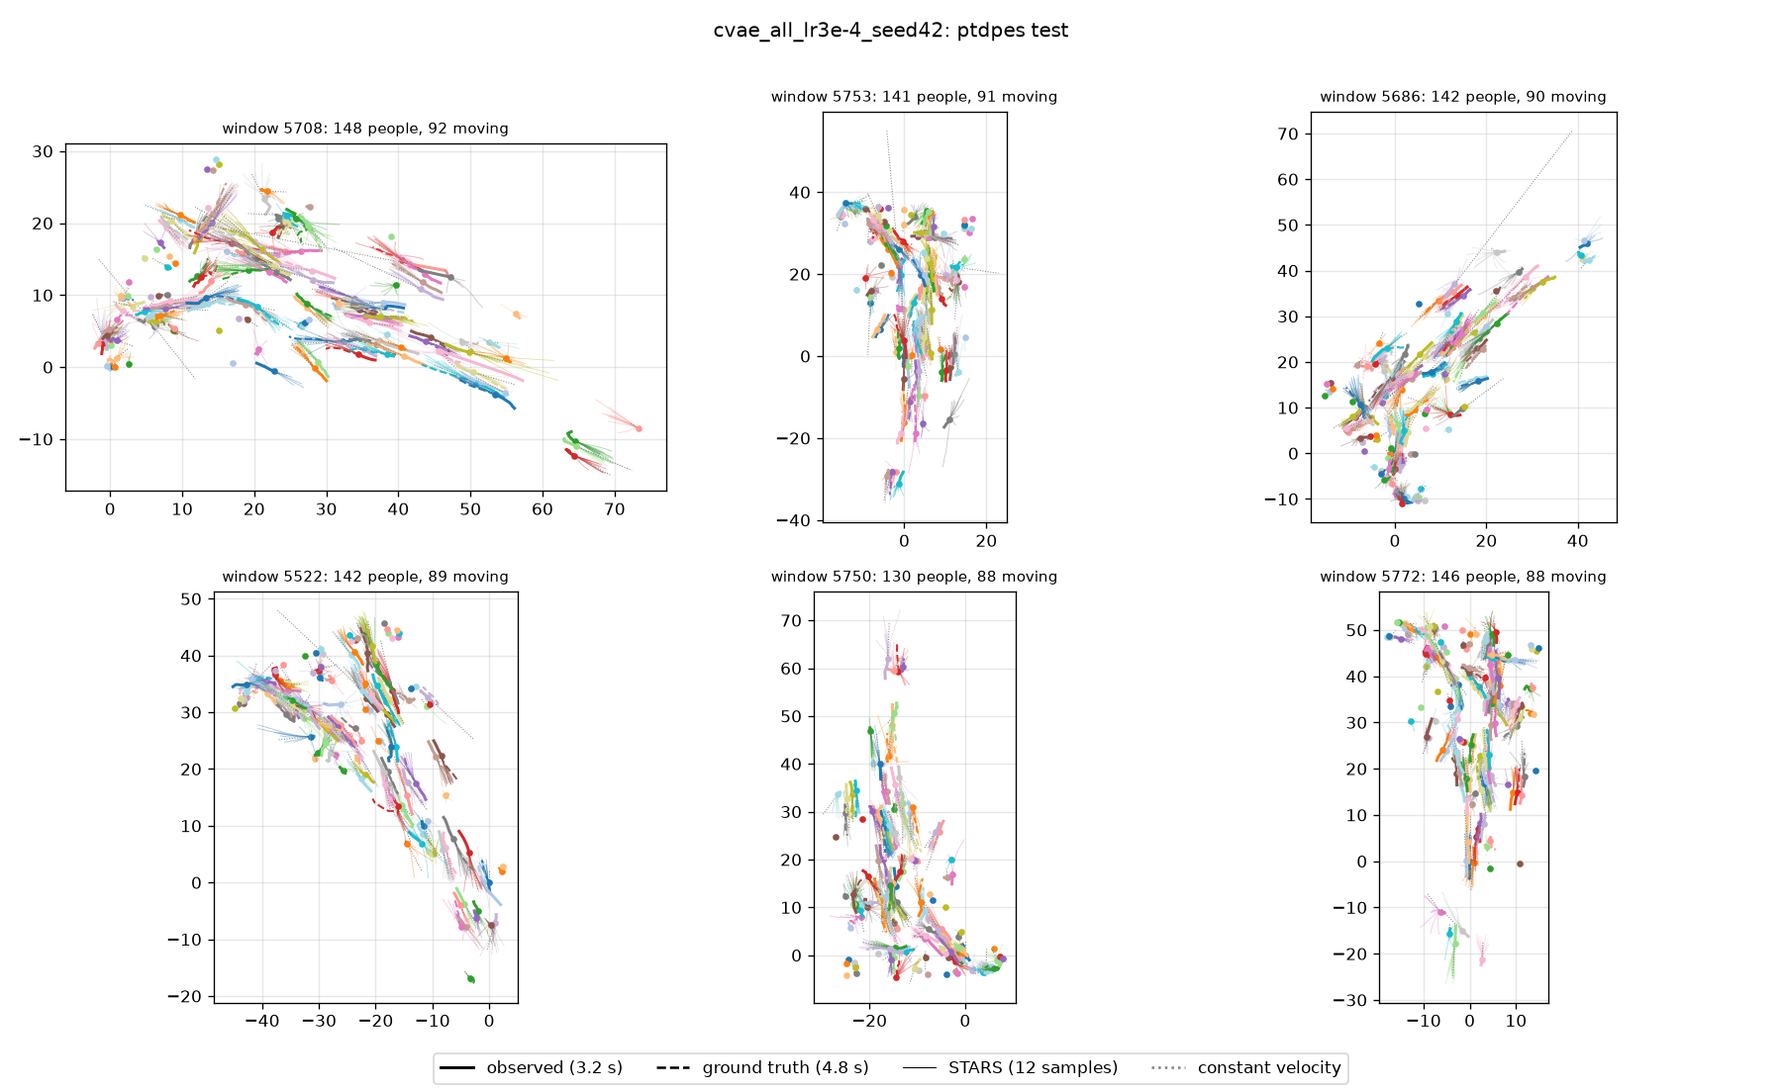
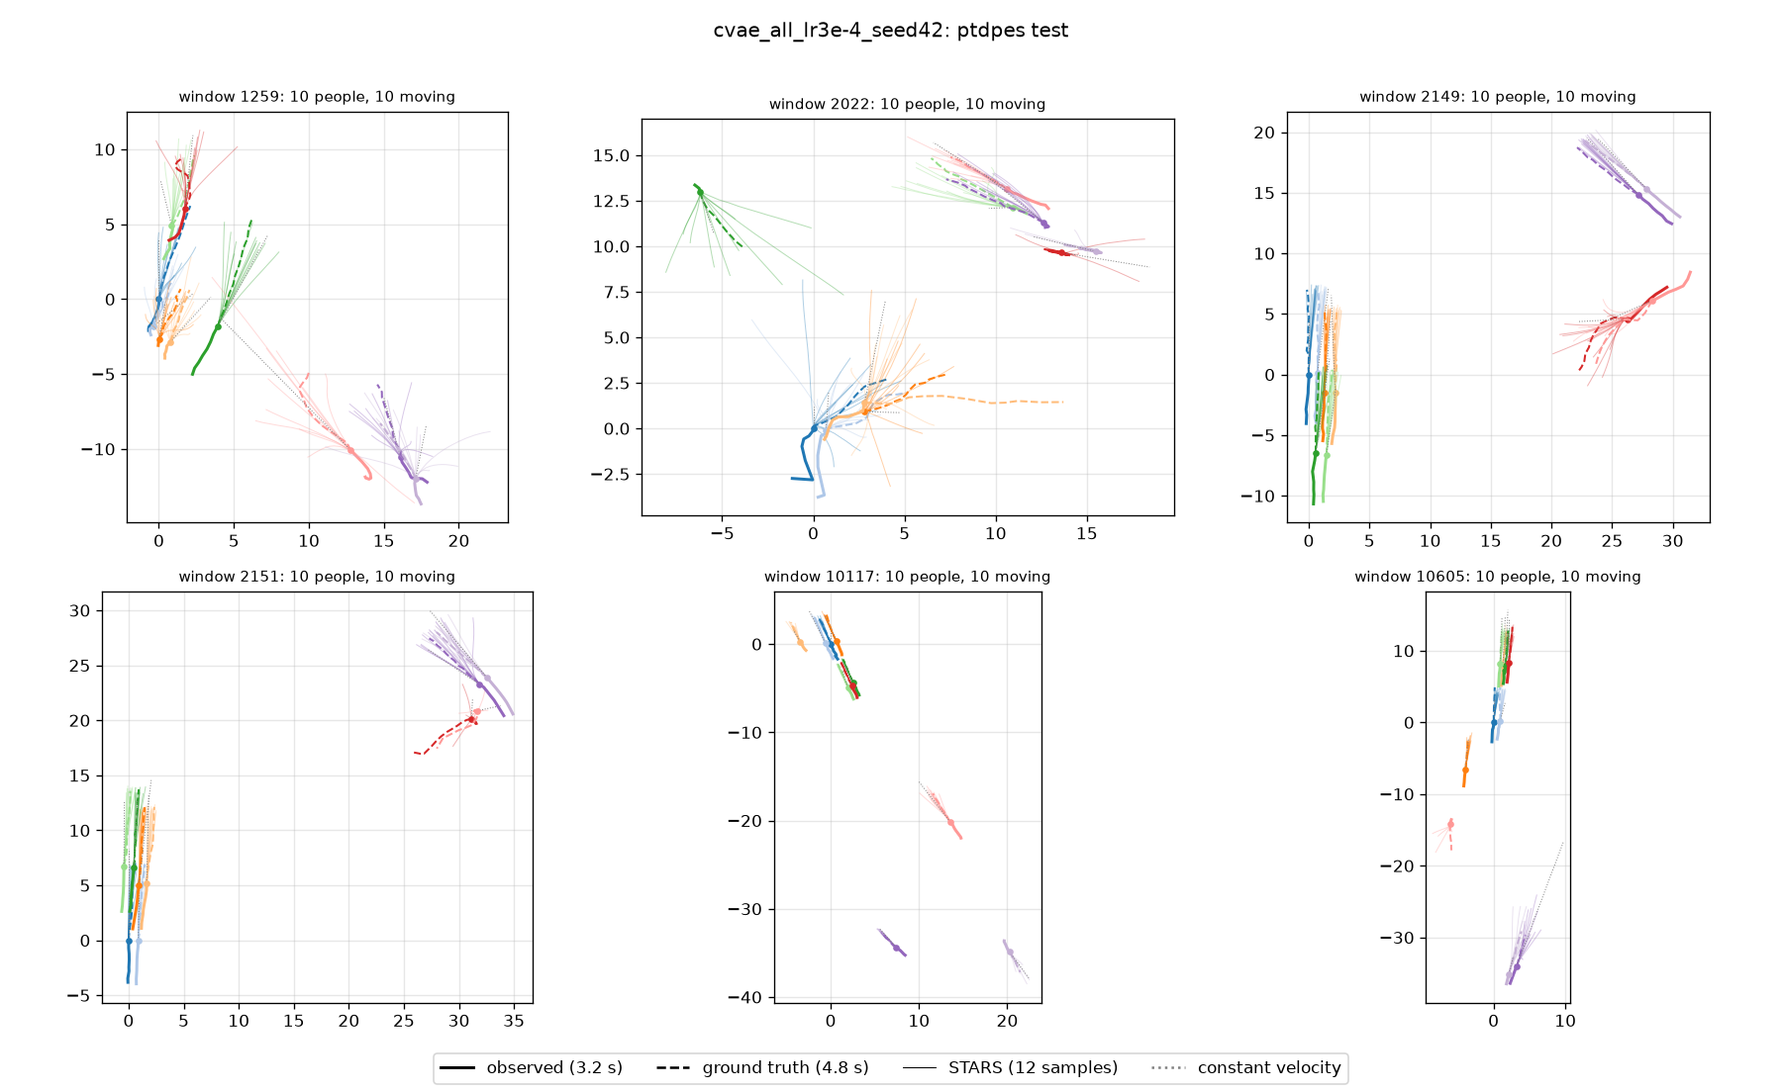
Legible visuals: navigation GIFs show the robot's plan and forecasts, follow the robot, status line; forecast figures capped at 10 people with step-by-step GIFs

diff --git a/src/seanjax/visualization/plots.py b/src/seanjax/visualization/plots.py
@@ -83,8 +83,101 @@ def plot_rollout(batch, run, b: int = 0, *, counterfactual=None, path=None, titl
     return fig
 
 
-def animate_rollout(batch, run, b: int = 0, *, path, counterfactual=None, every: int = 2, fps: int = 15):
-    """GIF of one environment: robot and pedestrian discs with short trails."""
+def animate_rollout(batch, run, b: int = 0, *, path, counterfactual=None, plans=None, every: int = 3, fps: int = 6,
+                    trail_s: float = 2.0, view_margin: float = 3.5, hold_s: float = 1.5, show_ghosts: bool = False):
+    """GIF of one environment, made to be read: what the robot sees, plans and does.
+
+    * the view follows the robot's path (plus ``view_margin`` m) instead of the whole arena;
+    * pedestrians are discs with fading ``trail_s`` trails; anyone inside the robot's intimate zone
+      (0.45 m gap) is outlined in red;
+    * with ``plans`` (per control step, ``policy.last_info`` recorded during the rollout) the robot's
+      chosen plan (blue, dashed) and its forecasts for pedestrians within 4 m (thin, colour of the
+      pedestrian) are drawn;
+    * a status line gives time, speed, nearest gap and driving / waiting / emergency stop;
+    * the animation stops at the end of the episode and holds the outcome for ``hold_s``;
+    * ``show_ghosts`` adds the robot-absent counterfactual pedestrians as dashed outlines.
+    """
+    from matplotlib.collections import LineCollection
+
+    end = int(run.end_step[b])
+    robot_pose = _np(run.robot_pose[b])
+    pos, active = _np(run.ped_pos[b]), _np(run.ped_active[b])
+    peds = np.flatnonzero(_np(batch.ped_mask[b]))
+    radius = _np(batch.ped_radius[b])
+    path_xy = np.concatenate([robot_pose[: end + 1, :2], _np(batch.robot_goal[b])[None]])
+    lo, hi = path_xy.min(0) - view_margin, path_xy.max(0) + view_margin
+    span = np.maximum(hi - lo, 8.0)                       # at least 8 m in each direction
+    centre = (lo + hi) / 2
+    lo, hi = centre - span / 2, centre + span / 2
+    width, margins = 7.5, dict(left=0.08, right=0.98, bottom=0.07, top=0.93)
+    height = width * (margins["right"] - margins["left"]) / (margins["top"] - margins["bottom"]) * span[1] / span[0]
+    fig, ax = plt.subplots(figsize=(width, float(np.clip(height, 3.5, 10.0))))
+    fig.subplots_adjust(**margins)
+    colors = plt.cm.tab20(np.linspace(0, 1, 20))
+    trail_steps = max(1, int(round(trail_s / run.dt)))
+    outcome = "reached the goal" if bool(run.success[b]) else (
+        "COLLISION" if bool(run.ped_collision[b] | run.obstacle_collision[b]) else "timed out")
+    frames = list(range(0, end + 1, every)) + [end] * int(hold_s * fps)
+
+    def update(k):
+        ax.clear()
+        _static(ax, batch, b)
+        ax.set_xlim(lo[0], hi[0]), ax.set_ylim(lo[1], hi[1]), ax.set_aspect("equal"), ax.grid(alpha=0.25)
+        x, y, th = robot_pose[k]
+        gaps = []
+        info = plans[min(k, len(plans) - 1)] if plans else None
+        for p in peds:
+            if not active[p, k]:
+                continue
+            c = colors[p % 20]
+            k0 = max(0, k - trail_steps)
+            seg = pos[p, k0:k + 1][active[p, k0:k + 1]]
+            if len(seg) > 1:
+                pts = np.stack([seg[:-1], seg[1:]], 1)
+                alpha = np.linspace(0.05, 0.6, len(pts))
+                ax.add_collection(LineCollection(pts, colors=[(*c[:3], a) for a in alpha], linewidths=1.5))
+            gap = float(np.hypot(*(pos[p, k] - (x, y)))) - radius[p] - 0.3
+            gaps.append(gap)
+            close = gap < 0.45
+            ax.add_patch(Circle(pos[p, k], radius[p], facecolor=c, alpha=0.85, edgecolor="red" if close else "none",
+                                lw=2 if close else 0))
+            if info is not None and info.get("predicted") is not None and gap < 4.0:
+                steps = int(info["plan_steps"])
+                ax.plot(*np.concatenate([pos[p, k][None], info["predicted"][p, :steps]]).T, color=c, lw=0.9,
+                        alpha=0.8, ls="-")
+            if show_ghosts and counterfactual is not None and bool(counterfactual.ped_active[b, p, k]):
+                ax.add_patch(Circle(_np(counterfactual.ped_pos[b, p, k]), radius[p], fill=False, ls="--", color=c))
+        ax.plot(robot_pose[: k + 1, 0], robot_pose[: k + 1, 1], color=ROBOT, lw=2, alpha=0.6)
+        if info is not None:
+            plan = info["plan"][: int(info["plan_steps"])]
+            ax.plot(*np.concatenate([[[x, y]], plan]).T, color=ROBOT, lw=2, ls="--")
+        ax.add_patch(Circle((x, y), 0.3, color=ROBOT, alpha=0.9))
+        ax.add_patch(Circle((x, y), 0.3 + 0.45, fill=False, ls=":", color=ROBOT, lw=1))
+        ax.plot([x, x + 0.45 * np.cos(th)], [y, y + 0.45 * np.sin(th)], color="white", lw=2.5)
+        v = float(run.robot_v[b, k])
+        nearest = f"{min(gaps):.2f} m" if gaps else "none"
+        emergency = bool(run.emergency[b, k])
+        state = "emergency stop" if emergency else ("waiting" if abs(v) < 0.05 else ("backing off" if v < 0 else "driving"))
+        status = f"t = {k * run.dt:4.1f} s   v = {v:+.2f} m/s   nearest gap {nearest}   {state}"
+        if k == end and frames[-1] == end:
+            status += f"\n{outcome} at {end * run.dt:.1f} s"
+        ax.set_title(f"{batch.names[b]}", fontsize=10)
+        ax.text(0.01, 0.99, status, transform=ax.transAxes, va="top", fontsize=8,
+                bbox=dict(facecolor="white", alpha=0.85, edgecolor="none"))
+        handles = [plt.Line2D([], [], color=ROBOT, lw=2, alpha=0.6, label="robot path"),
+                   plt.Line2D([], [], color=ROBOT, lw=2, ls="--", label="robot plan")]
+        if plans:
+            handles.append(plt.Line2D([], [], color="0.4", lw=0.9, label="its forecast of a pedestrian"))
+        handles += [plt.Line2D([], [], color="0.4", lw=1.5, alpha=0.5, label=f"pedestrian, last {trail_s:.0f} s"),
+                    plt.Line2D([], [], marker="o", ls="none", mfc="none", mec="red", label="within 0.45 m")]
+        ax.legend(handles=handles, loc="lower right", fontsize=7, framealpha=0.85)
+
+    FuncAnimation(fig, update, frames=frames, blit=False).save(path, writer=PillowWriter(fps=fps))
+    plt.close(fig)
+
+
+def animate_rollout_basic(batch, run, b: int = 0, *, path, counterfactual=None, every: int = 2, fps: int = 15):
+    """GIF of one environment: robot and pedestrian discs (the original, whole-scene animation)."""
     fig, ax = plt.subplots(figsize=(6.5, 5.5))
     _static(ax, batch, b)
     lo, hi = _extent(batch, run, b)

diff --git a/src/baselines/visualize_stars_ma.py b/src/baselines/visualize_stars_ma.py
@@ -5,6 +5,9 @@
 
 Chooses the windows with the most moving pedestrians (ground-truth mean speed > 0.2 m/s), so the
 figure shows interactions rather than a crowd of standing people, and draws a grid of them.
+``--max-people`` keeps the figure legible by only considering windows with at most that many
+people. ``--gifs N`` also writes one animation per chosen window (the first N): the observed
+history builds up, then the forecast unrolls step by step against the ground truth.
 """
 from __future__ import annotations
 
@@ -36,6 +39,9 @@ def main() -> None:
     parser.add_argument("--cache-dir", type=Path, default=Path("datasets/.cache/stars_ma"))
     parser.add_argument("--cache-workers", type=int, default=8)
     parser.add_argument("--seed", type=int, default=0)
+    parser.add_argument("--max-people", type=int, help="Only windows with at most this many people (legibility)")
+    parser.add_argument("--gifs", type=int, default=0, help="Also animate the first N chosen windows")
+    parser.add_argument("--fps", type=int, default=4, help="GIF frames per second (one frame per 0.4 s step)")
     args = parser.parse_args()
     setup_distributed(args)
     torch.manual_seed(args.seed)
@@ -53,7 +59,10 @@ def main() -> None:
     moving = ((speed > 0.2) & store.future_valid.all(-1)).float()
     per_window = torch.zeros(len(store), device=moving.device).index_add_(
         0, torch.repeat_interleave(torch.arange(len(store), device=moving.device), store.sizes), moving)
-    chosen = torch.argsort(per_window, descending=True)[: args.windows]
+    score = per_window.clone()
+    if args.max_people:
+        score[store.sizes.to(score.device) > args.max_people] = -1
+    chosen = torch.argsort(score, descending=True)[: args.windows]
     batch = build_batch(store, chosen, dt=dt, knn=args.knn, radius=args.radius)
     with torch.no_grad():
         samples = args.samples if model.latent_dim else 1
@@ -91,7 +100,58 @@ def main() -> None:
     fig.tight_layout(rect=(0, 0.04, 1, 0.97))
     args.output.parent.mkdir(parents=True, exist_ok=True)
     fig.savefig(args.output, dpi=120)
+    plt.close(fig)
     print(args.output)
+    for g in range(min(args.gifs, len(chosen))):
+        lo, hi = int(batch.ptr[g]), int(batch.ptr[g + 1])
+        path = args.output.with_name(f"{args.output.stem}_window{int(chosen[g])}.gif")
+        _animate(obs[lo:hi], future[lo:hi], valid[lo:hi], scene[:, lo:hi], cv[lo:hi], path,
+                 title=f"{args.datasets} test, window {int(chosen[g])}: {hi - lo} people", fps=args.fps)
+        print(path)
+
+
+def _animate(obs, future, valid, samples, cv, path, *, title: str, fps: int) -> None:
+    """Observed history first, then the forecast step by step; the last frame is held."""
+    import matplotlib.pyplot as plt
+    from matplotlib.animation import FuncAnimation, PillowWriter
+
+    T, F = obs.shape[1], future.shape[1]
+    every = torch.cat([obs.reshape(-1, 2), future[valid.all(-1)].reshape(-1, 2), samples.reshape(-1, 2)])
+    lo, hi = torch.quantile(every, 0.01, dim=0), torch.quantile(every, 0.99, dim=0)
+    pad = 0.08 * (hi - lo).max() + 0.5
+    colors = plt.cm.tab10(range(10))
+    fig, ax = plt.subplots(figsize=(6, 6))
+    frames = list(range(T)) + list(range(T, T + F)) + [T + F - 1] * fps * 2
+
+    def draw(frame):
+        ax.clear()
+        ax.set_xlim(float(lo[0] - pad), float(hi[0] + pad)), ax.set_ylim(float(lo[1] - pad), float(hi[1] + pad))
+        ax.set_aspect("equal"), ax.grid(alpha=0.3)
+        h = min(frame, T - 1) + 1
+        k = frame - T + 1                                    # future steps shown (0 while observing)
+        for n in range(obs.shape[0]):
+            c = colors[n % 10]
+            ax.plot(*obs[n, :h].T, color=c, lw=2)
+            if k <= 0:
+                ax.plot(*obs[n, h - 1], "o", color=c, ms=5)
+                continue
+            start = obs[n, -1:]
+            for s in range(samples.shape[0]):
+                ax.plot(*torch.cat([start, samples[s, n, :k]]).T, color=c, lw=0.7, alpha=0.3)
+            ax.plot(*torch.cat([start, cv[n, :k]]).T, color="0.45", lw=0.8, ls=":")
+            if valid[n].all():
+                ax.plot(*torch.cat([start, future[n, :k]]).T, color=c, lw=1.6, ls="--")
+                ax.plot(*future[n, k - 1], "o", color=c, ms=5)
+        phase = f"observed {h * 0.4:.1f} s" if k <= 0 else f"forecast +{k * 0.4:.1f} s"
+        ax.set_title(f"{title}\n{phase}", fontsize=9)
+        ax.legend(handles=[plt.Line2D([], [], color="k", lw=2, label="observed"),
+                           plt.Line2D([], [], color="k", lw=1.6, ls="--", label="ground truth"),
+                           plt.Line2D([], [], color="k", lw=0.7, alpha=0.5, label=f"STARS ({samples.shape[0]} samples)"),
+                           plt.Line2D([], [], color="0.45", ls=":", label="constant velocity")],
+                  loc="upper right", fontsize=7, framealpha=0.8)
+
+    FuncAnimation(fig, draw, frames=frames).save(path, writer=PillowWriter(fps=fps))
+    plt.close(fig)
 
 
 if __name__ == "__main__":

diff --git a/src/baselines/publish_latest_forecaster.py b/src/baselines/publish_latest_forecaster.py
@@ -56,7 +56,8 @@ def main() -> None:
     if args.comparison:
         shutil.copy(args.comparison, args.out / "figures" / "single_vs_pooled.png")
     forecasts = sorted(args.figures.glob("*.png")) if args.figures else []
-    for path in forecasts:
+    animations = sorted(args.figures.glob("*.gif")) if args.figures else []
+    for path in [*forecasts, *animations]:
         shutil.copy(path, args.out / "figures" / path.name)
 
     tf, cv = report["teacher_forced"], report["constant_velocity"]
@@ -94,11 +95,15 @@ def main() -> None:
         lines += ["## Against one model per dataset", "", "![single vs pooled](figures/single_vs_pooled.png)", ""]
     if forecasts:
         lines += ["## Forecasts", "",
-                  "Test windows with the most moving pedestrians. Thick: observed 3.2 s; dashed: ground truth 4.8 s; "
-                  "thin: STARS samples; dotted grey: constant velocity.", ""]
+                  "Test windows with the most moving pedestrians (at most 10 people, for legibility). Thick: observed "
+                  "3.2 s; dashed: ground truth 4.8 s; thin: STARS samples; dotted grey: constant velocity. The "
+                  "animations first build up the observed history, then unroll the 4.8 s forecast step by step "
+                  "(one frame per 0.4 s step).", ""]
         for path in forecasts:
             dataset = path.stem.removeprefix("forecasts_")
-            lines += [f"### {LABELS.get(dataset, dataset)}", "", f"![{path.stem}](figures/{path.name})", ""]
+            lines += [f"### {LABELS.get(dataset, dataset)}", ""]
+            lines += [f"![{gif.stem}](figures/{gif.name})" for gif in animations if gif.stem.startswith(path.stem + "_")]
+            lines += ["", f"![{path.stem}](figures/{path.name})", ""]
     datasets = config.get("datasets") or [e["name"] for e in config.get("train_entries", [])]
     lines += ["## Recipe", "", "```yaml", *(f"{k}: {config.get(k)}" for k in
               ("config", "decoder", "cvae_latent_dim", "encoder_mode", "knn", "radius", "kl_weight", "learning_rate",

diff --git a/seanjax/scripts/visualize_rollout.py b/seanjax/scripts/visualize_rollout.py
@@ -34,12 +34,25 @@ def main() -> None:
                                                          pedestrian_model=args.pedestrians, device=args.device)
     scenario = make_scenario(args.scenario, SPLIT_OFFSETS[args.split] + args.seed, pool=pool, split=args.split)
     batch = collate([scenario], device)
+    # Record what the controller planned and predicted at every control step (for the animation).
+    plans, act = [], getattr(policy, "act", None)
+    if act is not None:
+        def recording_act(obs, params):
+            command = act(obs, params)
+            info = getattr(policy, "last_info", {})
+            if "plan" in info:
+                predicted = info.get("predicted")
+                plans.append({"plan": info["plan"][0].float().cpu().numpy(), "plan_steps": int(info["plan_steps"][0]),
+                              "predicted": None if predicted is None else predicted[0].float().cpu().numpy()})
+            return command
+
+        policy.act = recording_act
     run = rollout(env, batch, policy, policy.parameter_tensor(config["policy_parameters"], 1, device))
     counterfactual = rollout(env, batch, robot_present=False)
     args.out_dir.mkdir(parents=True, exist_ok=True)
     stem = args.out_dir / f"{scenario.name}-{Path(args.checkpoint).stem}"
     plot_rollout(batch, run, counterfactual=counterfactual, path=f"{stem}.png")
-    animate_rollout(batch, run, counterfactual=counterfactual, path=f"{stem}.gif")
+    animate_rollout(batch, run, counterfactual=counterfactual, plans=plans or None, path=f"{stem}.gif")
     print(f"saved {stem}.png, {stem}.gif")
     if args.run_dir:
         plot_convergence(args.run_dir / "generations.jsonl", args.out_dir / "convergence.png")

diff --git a/seanjax/scripts/publish_latest_policy.py b/seanjax/scripts/publish_latest_policy.py
@@ -117,9 +117,14 @@ def main() -> None:
               "| --- |" + " ---: |" * len(COLUMNS)]
     lines += [_row(kind, ours["per_kind"][kind]) for kind in kinds]
     lines += ["", "## Rollouts", "",
-              "Thick blue: the robot (square: start, star: goal). Solid lines: pedestrians with the robot present; "
-              "dashed: the same pedestrians with the robot absent. Single episodes show behaviour, not rates: the "
-              "outcome of a close encounter can change between runs (decision 83).", ""]
+              "The view follows the robot (blue disc, white tick = heading; square: start, star: goal). "
+              "**Blue line**: where it has been. **Blue dashed**: the plan it just chose. **Thin coloured lines**: "
+              "what it predicts each nearby pedestrian (within 4 m) will do; that forecast is what the plan is "
+              "scored against. Pedestrians have fading 2 s trails and turn red-outlined inside the 0.45 m intimate "
+              "zone (the dotted ring). The status line gives time, speed, the nearest gap and whether the robot is "
+              "driving, waiting or stopping; the final frame states the outcome. Playback is about 1.8x real time. "
+              "Single episodes show behaviour, not rates: the outcome of a close encounter can change between runs "
+              "(decision 83).", ""]
     for gif in gifs:
         kind = gif.stem.split("-")[0]
         lines += [f"### {CAPTIONS.get(kind, kind)} (`{gif.stem.rsplit('-', 1)[0]}`)", "",

diff --git a/src/seanjax/policies/social_navigation.py b/src/seanjax/policies/social_navigation.py
@@ -157,6 +157,7 @@ class SocialNavigationPolicy(Policy):
             cost = cost + retreat_cost * torch.relu(-progress)
         crowding = torch.zeros(B, device=device)
         valid = torch.ones(B, M, dtype=torch.bool, device=device)
+        future = None
         pass_side = torch.zeros(B, M, device=device)                              # side of the blocker each plan ends on
         blocker = torch.zeros(B, dtype=torch.long, device=device)
         has_blocker = torch.zeros(B, dtype=torch.bool, device=device)
@@ -264,5 +265,9 @@ class SocialNavigationPolicy(Policy):
         command = torch.where(emergency[:, None], torch.zeros_like(command), command)
         stop = (commands[:, 0].abs() + (commands[:, 0] != 0) * 1e3 + commands[:, 1].abs()).argmin()[None]  # v = 0, w ~ 0
         self.last_info = {"emergency_stop": emergency, "valid_fraction": valid.float().mean(1),
-                          "stop_valid": valid[:, stop].any(1)}
+                          "stop_valid": valid[:, stop].any(1),
+                          # For visualisation: the chosen plan [B, H, 2] (planning horizon only) and the
+                          # pedestrian forecasts it was scored against [B, P, H, 2] (None without pedestrians).
+                          "plan": robot_xy[torch.arange(B, device=device), best], "plan_steps": steps_used,
+                          "predicted": future}
         return command

diff --git a/docs/latest_forecaster/README.md b/docs/latest_forecaster/README.md
@@ -1,6 +1,6 @@
 # Latest trajectory forecaster: Pooled six-dataset CVAE, LR 3e-4
 
-Published 2026-10-22 from commit `f1183e3`. Regenerated by `python -m baselines.publish_latest_forecaster` for every new reference model; older versions live in git history.
+Published 2026-10-22 from commit `726d883`. Regenerated by `python -m baselines.publish_latest_forecaster` for every new reference model; older versions live in git history.
 
 Checkpoint: `experiments/stars_ma/runs/cvae_all_lr3e-4_seed42/checkpoints/best.pt` (best validation 0.2193 at epoch 41).
 
@@ -29,21 +29,33 @@ Test split, best-of-20 for the CVAE, in metres. *Moving* = agents whose true fut
 
 ## Forecasts
 
-Test windows with the most moving pedestrians. Thick: observed 3.2 s; dashed: ground truth 4.8 s; thin: STARS samples; dotted grey: constant velocity.
+Test windows with the most moving pedestrians (at most 10 people, for legibility). Thick: observed 3.2 s; dashed: ground truth 4.8 s; thin: STARS samples; dotted grey: constant velocity. The animations first build up the observed history, then unroll the 4.8 s forecast step by step (one frame per 0.4 s step).
 
 ### ETH
+
+![forecasts_eth_window10](figures/forecasts_eth_window10.gif)
+![forecasts_eth_window9](figures/forecasts_eth_window9.gif)
 
 ![forecasts_eth](figures/forecasts_eth.png)
 
 ### Grand Central
 
+![forecasts_grand_central_window1061](figures/forecasts_grand_central_window1061.gif)
+![forecasts_grand_central_window2002](figures/forecasts_grand_central_window2002.gif)
+
 ![forecasts_grand_central](figures/forecasts_grand_central.png)
 
 ### PTDPES
 
+![forecasts_ptdpes_window1259](figures/forecasts_ptdpes_window1259.gif)
+![forecasts_ptdpes_window2022](figures/forecasts_ptdpes_window2022.gif)
+
 ![forecasts_ptdpes](figures/forecasts_ptdpes.png)
 
 ### STEPS
+
+![forecasts_steps_window214](figures/forecasts_steps_window214.gif)
+![forecasts_steps_window954](figures/forecasts_steps_window954.gif)
 
 ![forecasts_steps](figures/forecasts_steps.png)
 

diff --git a/docs/latest_policy/README.md b/docs/latest_policy/README.md
@@ -1,6 +1,6 @@
 # Latest navigation policy: Crowd v4
 
-Published 2026-10-22 from commit `5c63738`. This folder is regenerated by `seanjax/scripts/publish_latest_policy.py` for every new reference policy; older versions live in git history.
+Published 2026-10-22 from commit `726d883`. This folder is regenerated by `seanjax/scripts/publish_latest_policy.py` for every new reference policy; older versions live in git history.
 
 Reasoning: [`docs/decisions.md`](../decisions.md), entries 70, 75, 77, 79, 83.
 
@@ -34,7 +34,7 @@ Reasoning: [`docs/decisions.md`](../decisions.md), entries 70, 75, 77, 79, 83.
 
 ## Rollouts
 
-Thick blue: the robot (square: start, star: goal). Solid lines: pedestrians with the robot present; dashed: the same pedestrians with the robot absent. Single episodes show behaviour, not rates: the outcome of a close encounter can change between runs (decision 83).
+The view follows the robot (blue disc, white tick = heading; square: start, star: goal). **Blue line**: where it has been. **Blue dashed**: the plan it just chose. **Thin coloured lines**: what it predicts each nearby pedestrian (within 4 m) will do; that forecast is what the plan is scored against. Pedestrians have fading 2 s trails and turn red-outlined inside the 0.45 m intimate zone (the dotted ring). The status line gives time, speed, the nearest gap and whether the robot is driving, waiting or stopping; the final frame states the outcome. Playback is about 1.8x real time. Single episodes show behaviour, not rates: the outcome of a close encounter can change between runs (decision 83).
 
 ### Recorded STEPS traffic (`recorded-2000000`)
 
